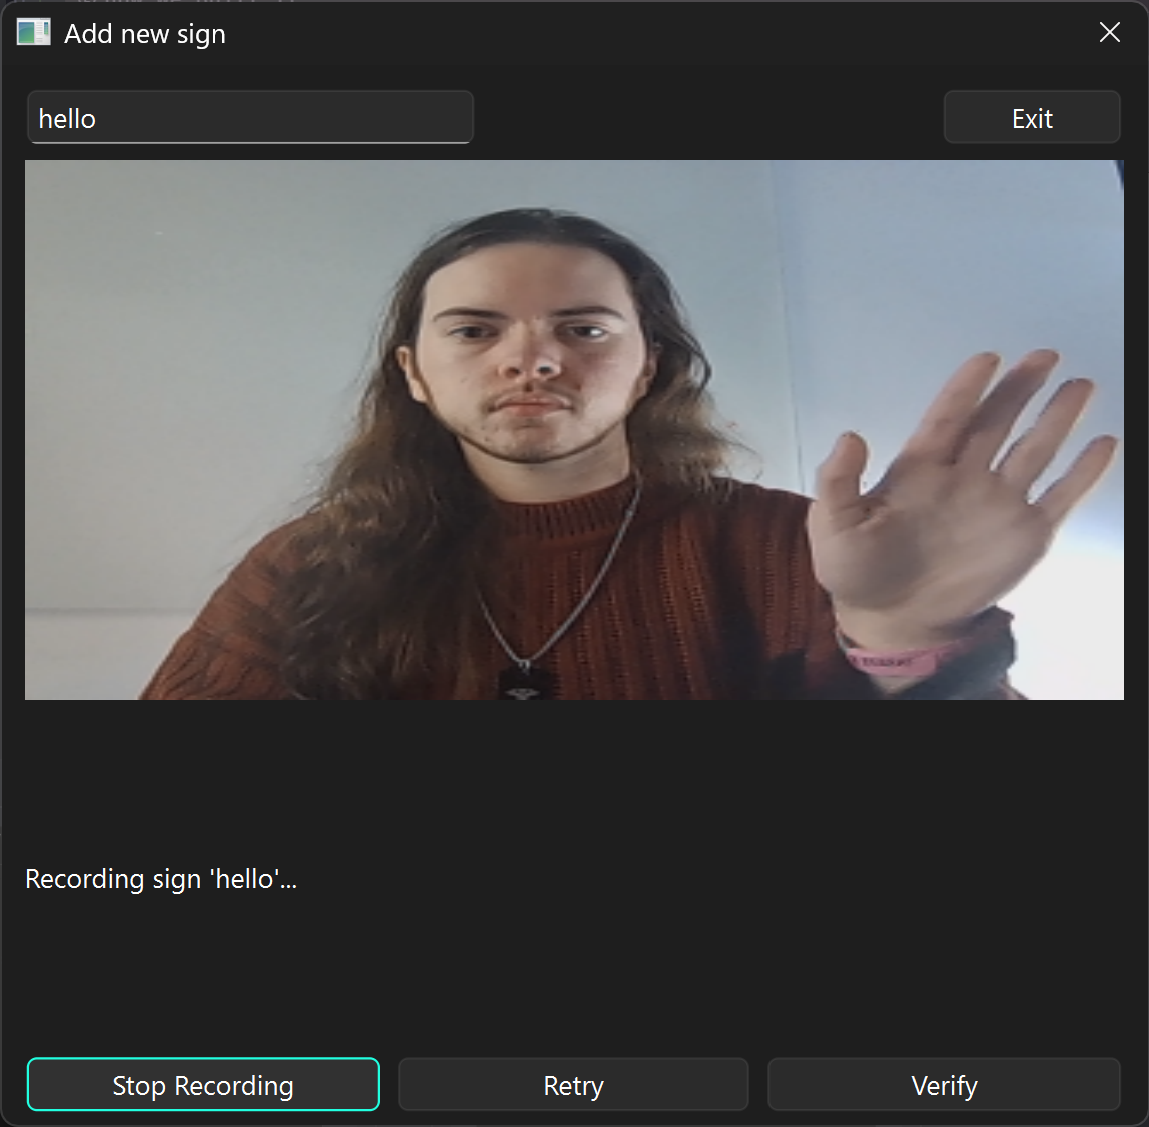
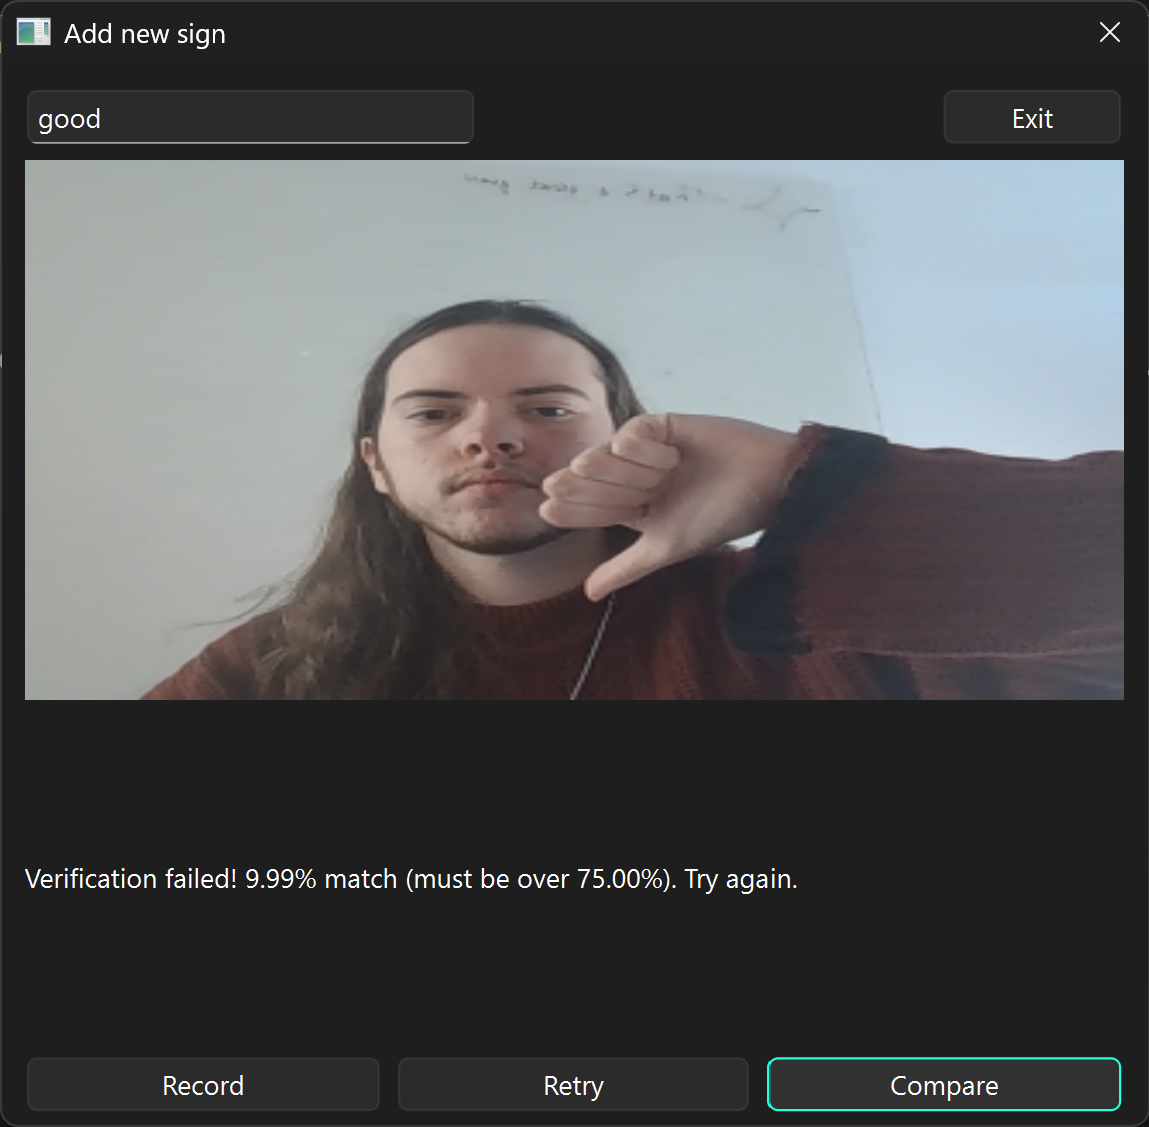
docs: change 2nd picture

diff --git a/README.md b/README.md
@@ -8,7 +8,7 @@ Learning vocab for a foreign language in 2026 is easy. You add flashcards to Ank
 
 Anki for British Sign Language. The app asks you to sign a phrase. You sign the phrase, and via the web cam recording, the app tells you whether your sign matched the correct sign or not. If you fail, the flashcard will be shown again until you pass.
 
-![add-new-sign](media/add-new-sign.mp4)
+[add-new-sign](media/add-new-sign.mp4)
 
 ![home-screen-2](media/home-screen-2.png)
 
